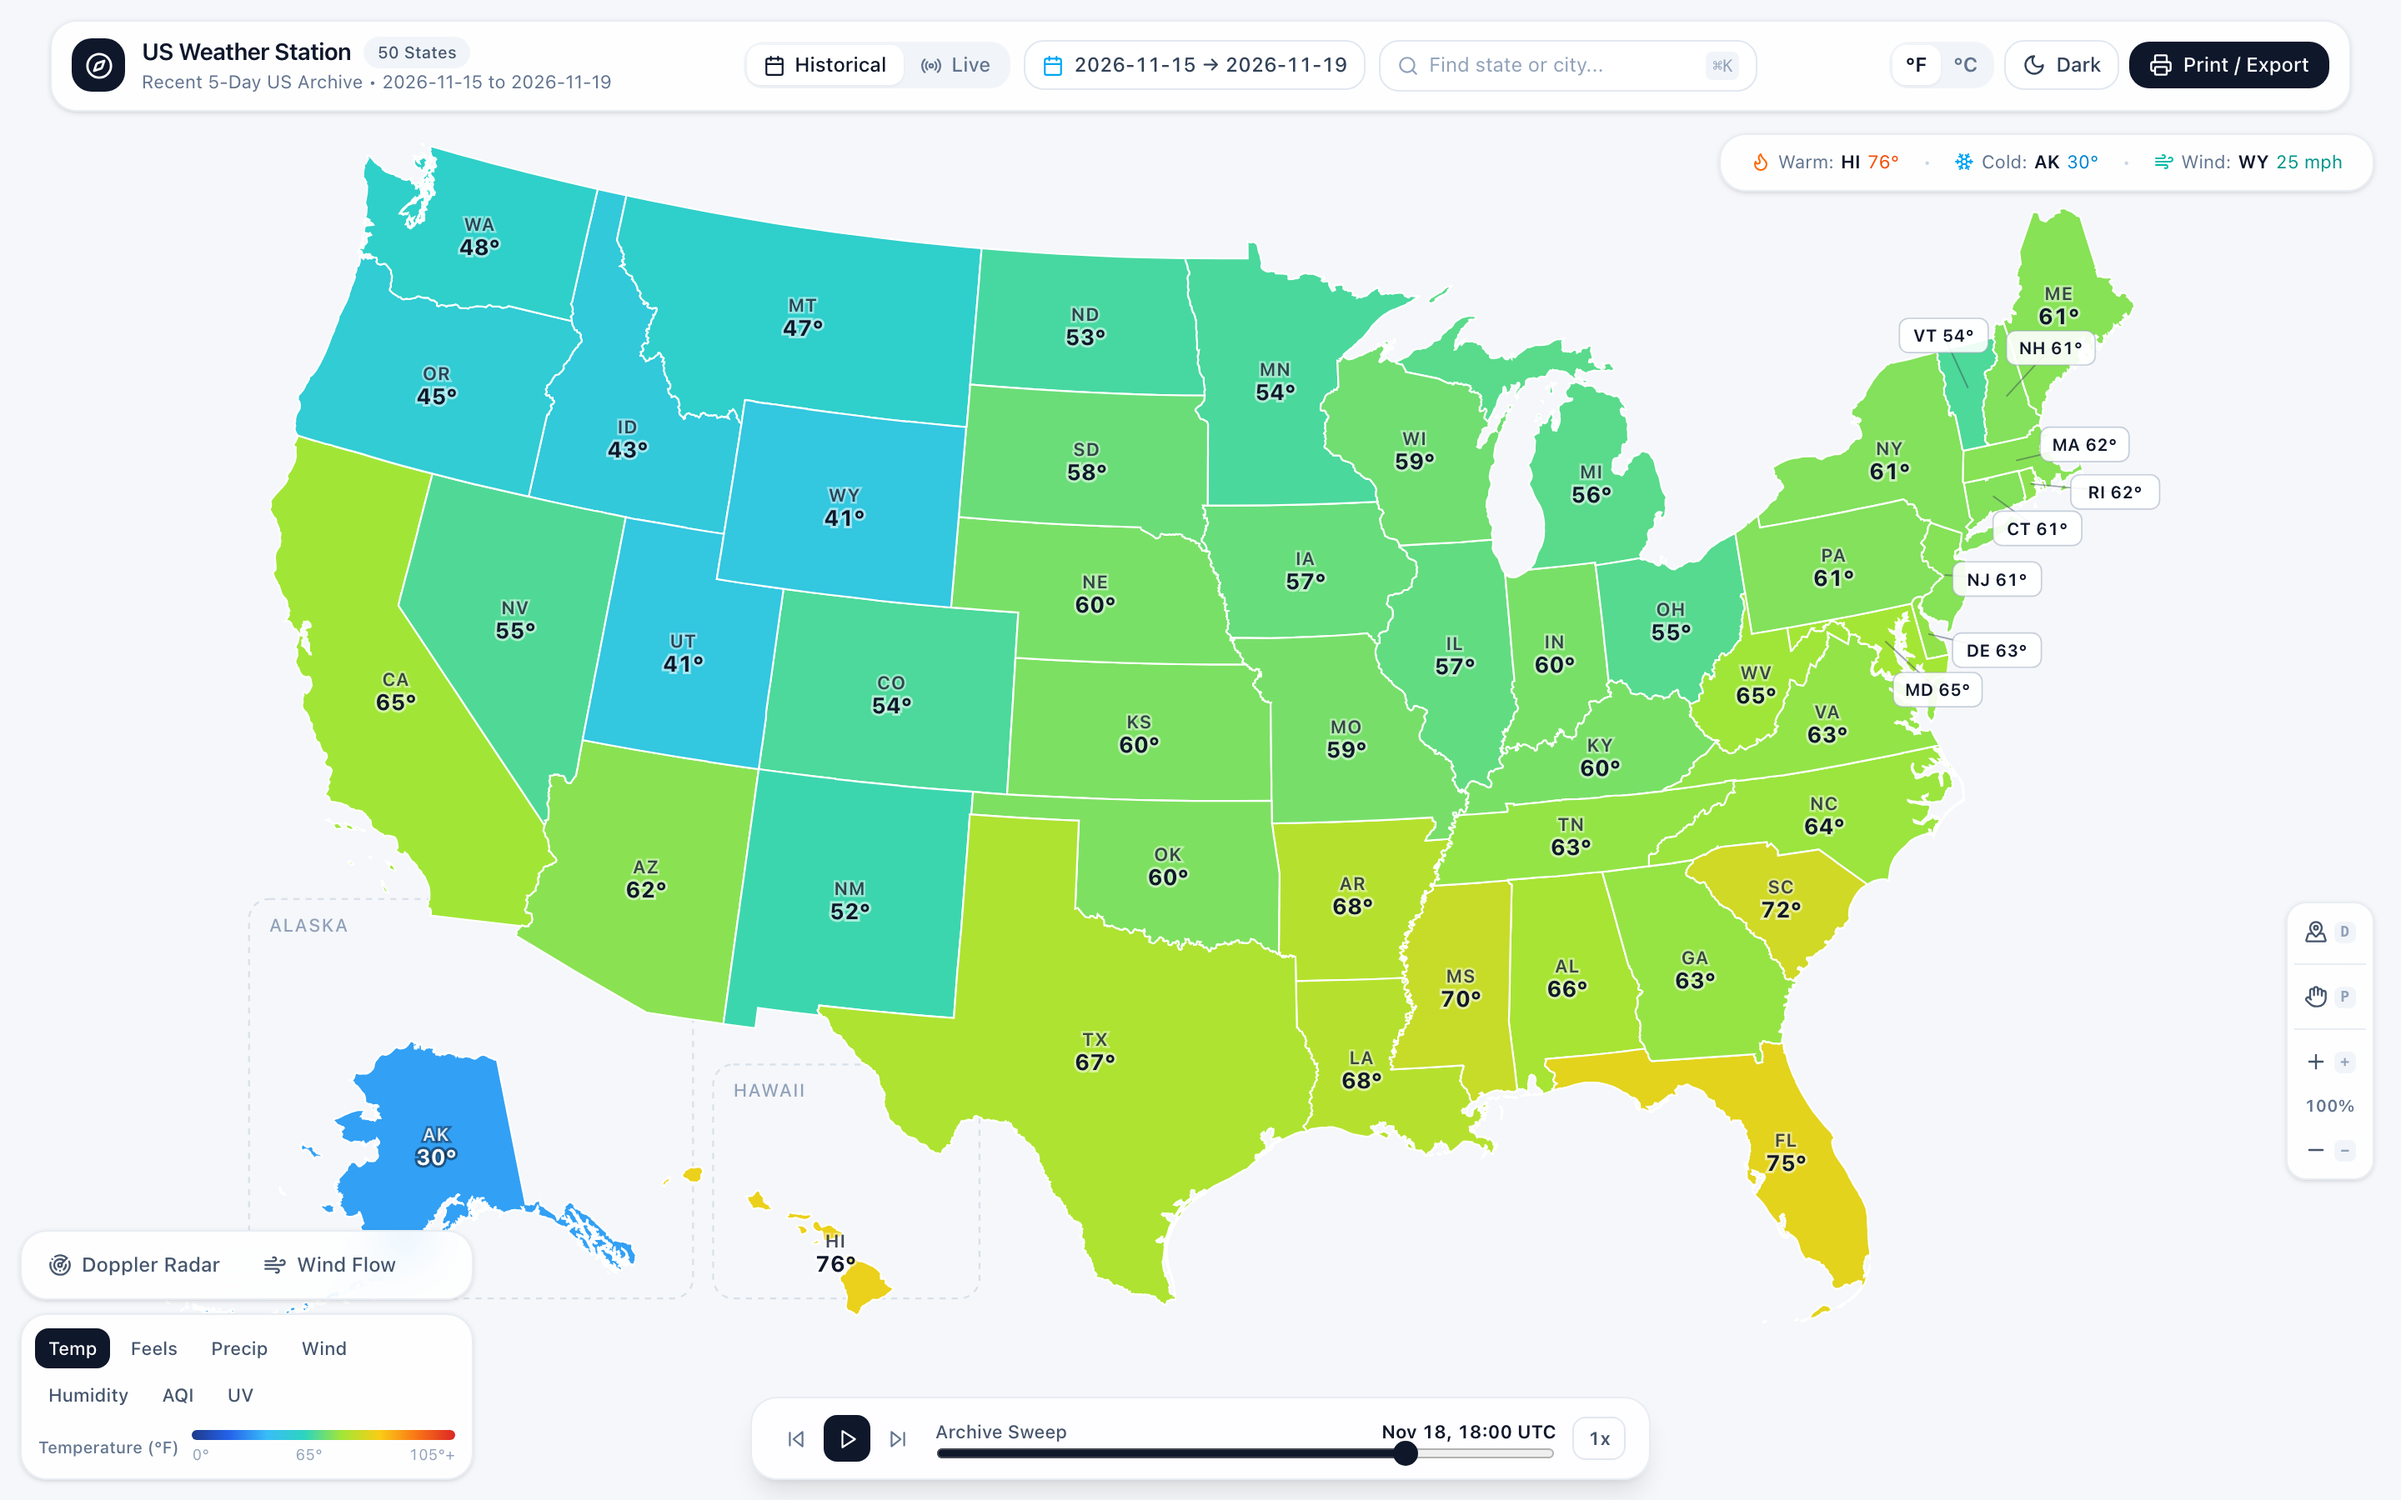
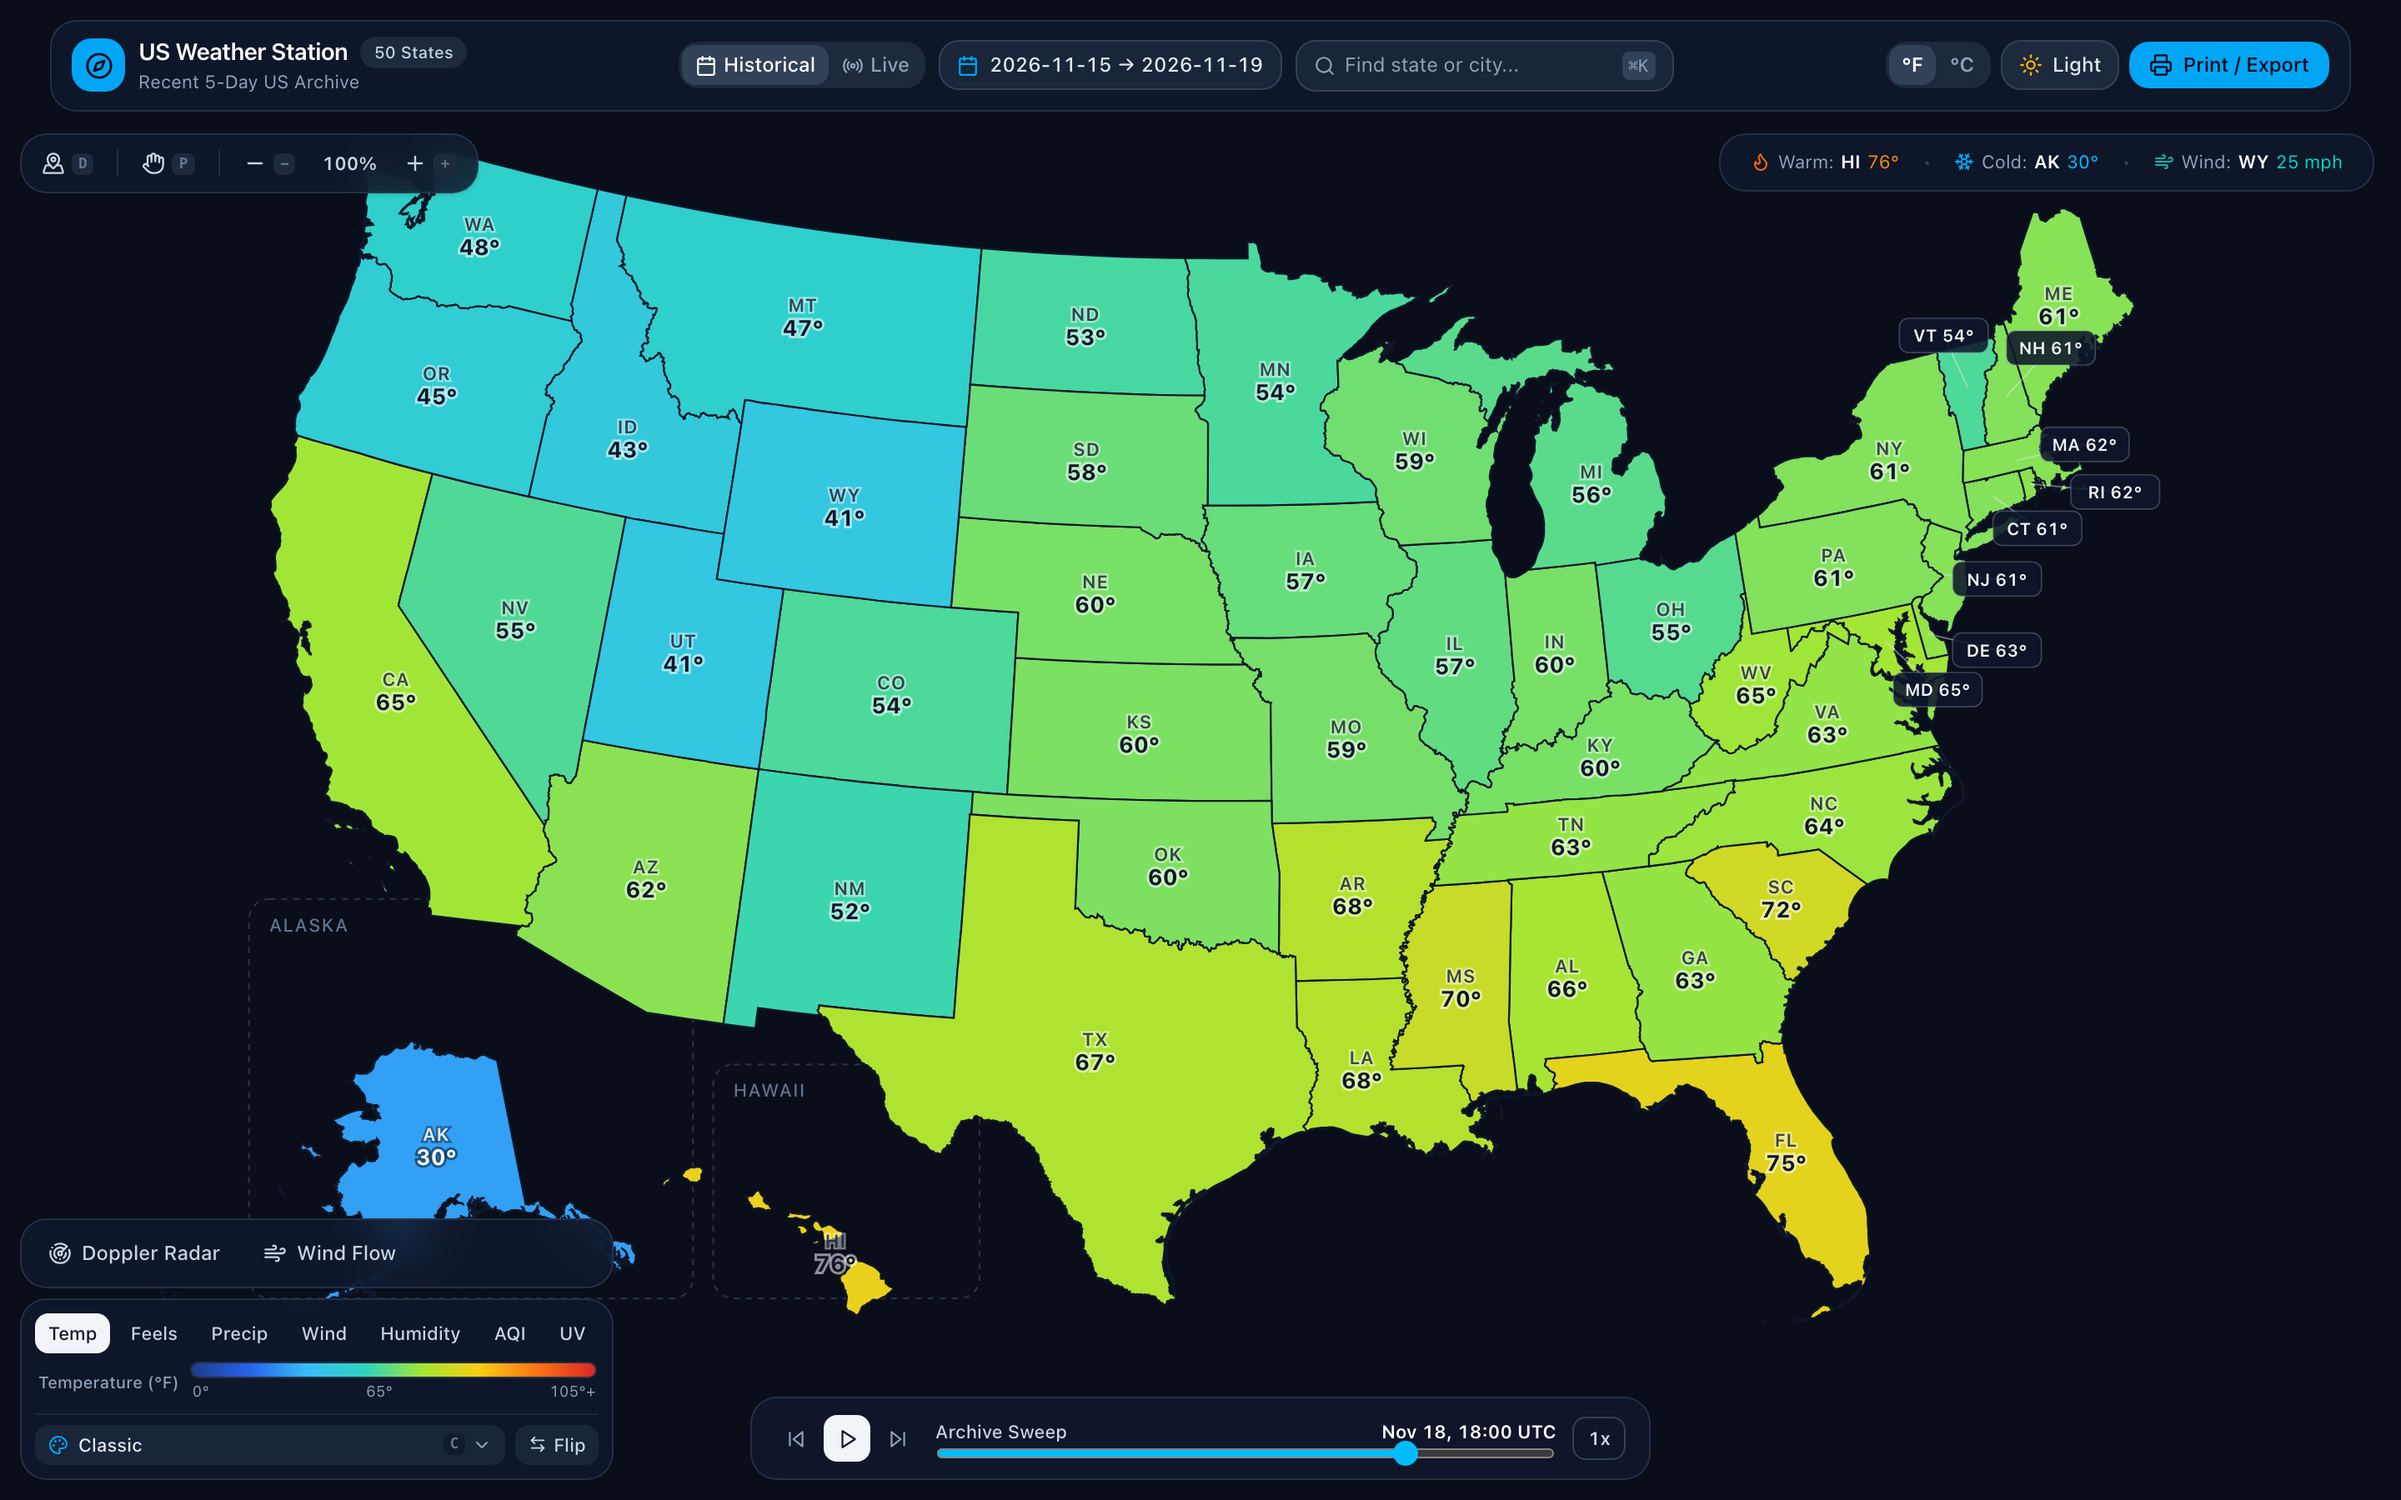
docs: streamline README with live link and dark mode screenshots

diff --git a/README.md b/README.md
@@ -1,75 +1,60 @@
 # US Weather Station
 
-Minimalist, interactive 50-state US weather atlas built on the **Bun TypeScript** toolchain. Starts in **Historical Archive** mode with an offline-ready 50-state baseline and switches cleanly to **Live Mode**, animated **Doppler radar**, **wind streamlines**, **Detailed State Mode** (top 10 populated cities), and printable briefings with **zero API keys required**.
+> **Try it live:** **[https://weather-station.juyoung-m-yoo.workers.dev/](https://weather-station.juyoung-m-yoo.workers.dev/)**
 
-![US Weather Station — 50-State Weather Map](docs/screenshot.png)
+An interactive 50-state US weather atlas with historical archives, live forecasts, animated Doppler radar, wind streamlines, and printable briefings — with zero API keys required.
+
+[![US Weather Station — 50-State Weather Map (Dark Mode)](docs/screenshot.png)](https://weather-station.juyoung-m-yoo.workers.dev/)
 
 ## Features
 
-- **50-State Interactive Map** — Albers USA vector map (`d3-geo` + `us-atlas`) with non-overlapping Northeast callouts, hover tooltips, pinned selection tooltips, and Light / Dark themes.
-- **Pan, Zoom & Detailed State Mode** — Toggle pan mode (`P` or hold `Space`), zoom from `50%` to `1200%` (`+`/`-`, `0` to reset, or scroll wheel toward cursor), and toggle **Detailed State Mode** (`D`) to auto-zoom into any selected state and populate weather for its **top 10 populated cities** on the map and in the drawer.
-- **Historical First, Live Ready** — Boots instantaneously on a real 5-day 50-state historical archive snapshot; explore curated US weather events (e.g., *Jan 2024 Arctic Outbreak*, *Jul 2023 Heat Dome*, *Feb 2021 Deep Freeze*, *2012 Sandy*), custom dates back to 1940, or toggle **Live Mode** (single-batch 50-state query cached via `bun:sqlite`).
-- **State Detail Drawer** — Click any state for a pinned summary tooltip, multi-city switcher (including ranked top 10 populated cities in Detailed State Mode), interactive 24–36h temperature & precipitation chart, daily range bars, atmospheric metrics, active NWS severe alerts, and side-by-side state comparison.
-- **Broadcast Animations & Doppler Radar** — Pixel-reprojected **NOAA MRMS** (CONUS, Alaska, Hawaii) and **IEM NEXRAD Archive** radar loops, animated wind flow streamlines, and a multi-day weather front timeline scrubber.
-- **Print & Export Studio** — Print-formatted 50-state and single-state briefings (`@media print` / PDF), plus CSV, JSON, and 2x PNG map exports.
+- **50-State Interactive Map** — Explore temperatures, feels-like, precipitation, wind, humidity, AQI, and UV across all 50 states in light or dark mode.
+- **Historical & Live Weather** — Inspect curated US weather events or custom dates back to 1940, or switch to **Live** for current forecasts and active NWS severe alerts.
+- **State Details & Top 10 Cities** — Click any state for hourly trends, daily forecasts, and a city selector dropdown, or enable **Detailed State Mode** (`D`) to zoom in on its 10 most populated cities.
+- **Radar & Wind Animations** — Overlay animated Doppler radar loops and live wind flow lines, and scrub across time with the bottom playback dock.
+- **Customizable Colormaps & Controls** — Switch or flip colormaps (`C` / `Shift+C`), pan (`P` or `Space`), zoom (`+`/`-` or scroll), and export briefings to PDF, PNG, CSV, or JSON.
 
-### Detailed State Mode Preview
-
-![Detailed State Mode — California Top 10 Populated Cities](docs/screenshot-detailed.png)
-
-## Stack & Data Sources
-
-| Layer | Technology / Source | Notes |
-| :--- | :--- | :--- |
-| Edge Runtime & API | **Cloudflare Workers**, **Hono**, **Vite 7** (`@cloudflare/vite-plugin`, `wrangler`) | Edge SPA + `/api/*` Worker (also supports local Bun server via `dev:bun`) |
-| Frontend | **React 19**, **TypeScript**, **Tailwind CSS v4** (`@tailwindcss/vite`), **d3-geo** | Minimalist glass UI |
-| Caching | **Cloudflare Cache API** + isolate memory cache (Workers) / **`bun:sqlite`** (Bun) | Runtime-agnostic [`WeatherCacheStore`](src/server/cacheTypes.ts) |
-| Weather & Archive | **Open-Meteo** Forecast, ERA5 Archive & Air Quality APIs | 50-state batched, no key |
-| Severe Alerts | **NOAA / NWS** `api.weather.gov` | Active alerts & polygons |
-| Doppler Radar | **NOAA OpenGeo MRMS WMS** & **IEM NEXRAD Archive** | Live & historical loops |
+[![Detailed State Mode — California Top 10 Populated Cities (Dark Mode)](docs/screenshot-detailed.png)](https://weather-station.juyoung-m-yoo.workers.dev/)
 
 ## Quickstart
 
+Install dependencies with [Bun](https://bun.sh/) and start the app locally:
+
 ```bash
 bun install
-bun run dev        # Vite + Cloudflare Workers dev server (requires Node.js for Miniflare)
+bun run dev        # Vite + Cloudflare Workers dev server
 # or
-bun run dev:bun    # Local Bun full-stack dev server (no Node.js required)
+bun run dev:bun    # Local Bun server (no Node.js required)
 ```
 
-### Deploy to Cloudflare Workers
+<details>
+<summary>Other useful commands (build, test, deploy)</summary>
 
 ```bash
-bun run check                  # Typecheck, build client + worker bundles, and dry-run Wrangler deploy
-bun run build && bun run deploy # Build and deploy to Cloudflare Workers via Wrangler
+bun test                         # Run unit, Worker, and API tests
+bun run check                    # Typecheck, build, and dry-run Cloudflare deploy
+bun run build && bun run deploy  # Build and deploy to Cloudflare Workers
+bun run preview                  # Preview the production bundle locally
+bun run seed                     # Regenerate the default historical snapshot
 ```
 
-### Scripts
+</details>
 
-```bash
-bun run dev        # Start Vite + Cloudflare Workers dev server with HMR (requires Node.js)
-bun run build      # Typecheck all tsconfig project references and build client + Worker
-bun run preview    # Build and preview the production bundle locally
-bun run check      # Typecheck, build, and run `wrangler deploy --dry-run`
-bun run deploy     # Deploy to Cloudflare Workers
-bun run cf-typegen # Regenerate `worker-configuration.d.ts` via `wrangler types`
-bun run dev:bun    # Start local Bun.serve dev server with HMR (SQLite cache)
-bun run start:bun  # Run local Bun.serve in production mode
-bun test           # Run unit, Worker, & API test suite
-bun run typecheck  # Run strict TypeScript project-reference checks (`tsc -b`)
-bun run seed       # Regenerate the 50-state baseline historical snapshot
-```
+## Tech & Data Sources
+
+| Area | Built With |
+| :--- | :--- |
+| Frontend | React 19, TypeScript, Tailwind CSS v4, `d3-geo` + `us-atlas` |
+| Backend & Edge | Cloudflare Workers, Hono, Vite 7, `bun:sqlite` (local cache) |
+| Weather & Radar | Open-Meteo (Forecast, ERA5, Air Quality), NOAA/NWS Alerts, NOAA MRMS & IEM NEXRAD |
 
 ## Project Structure
 
 ```text
-index.html         # Vite client entrypoint
-vite.config.ts     # Vite + React + Tailwind v4 + @cloudflare/vite-plugin
-wrangler.json      # Cloudflare Workers & static assets configuration
 src/
-├── client/        # React UI, Albers map, radar/wind canvases, print & export views
-├── worker/        # Cloudflare Worker Hono entrypoint & Workers cache adapter
-├── server/        # Runtime-agnostic API router, data providers, SQLite cache, Bun entrypoint
-└── shared/        # Shared TypeScript types, WMO codes, presets, unit formatters
-tests/             # Unit, Worker, API router, and CSV exporter tests
+├── client/   # React UI, interactive map, radar/wind overlays, print & export views
+├── worker/   # Cloudflare Worker entrypoint & edge cache adapter
+├── server/   # API router, weather providers, SQLite cache, Bun dev server
+└── shared/   # Shared types, weather codes, presets, and unit formatters
+tests/        # Unit, Worker, and API test suites
 ```
